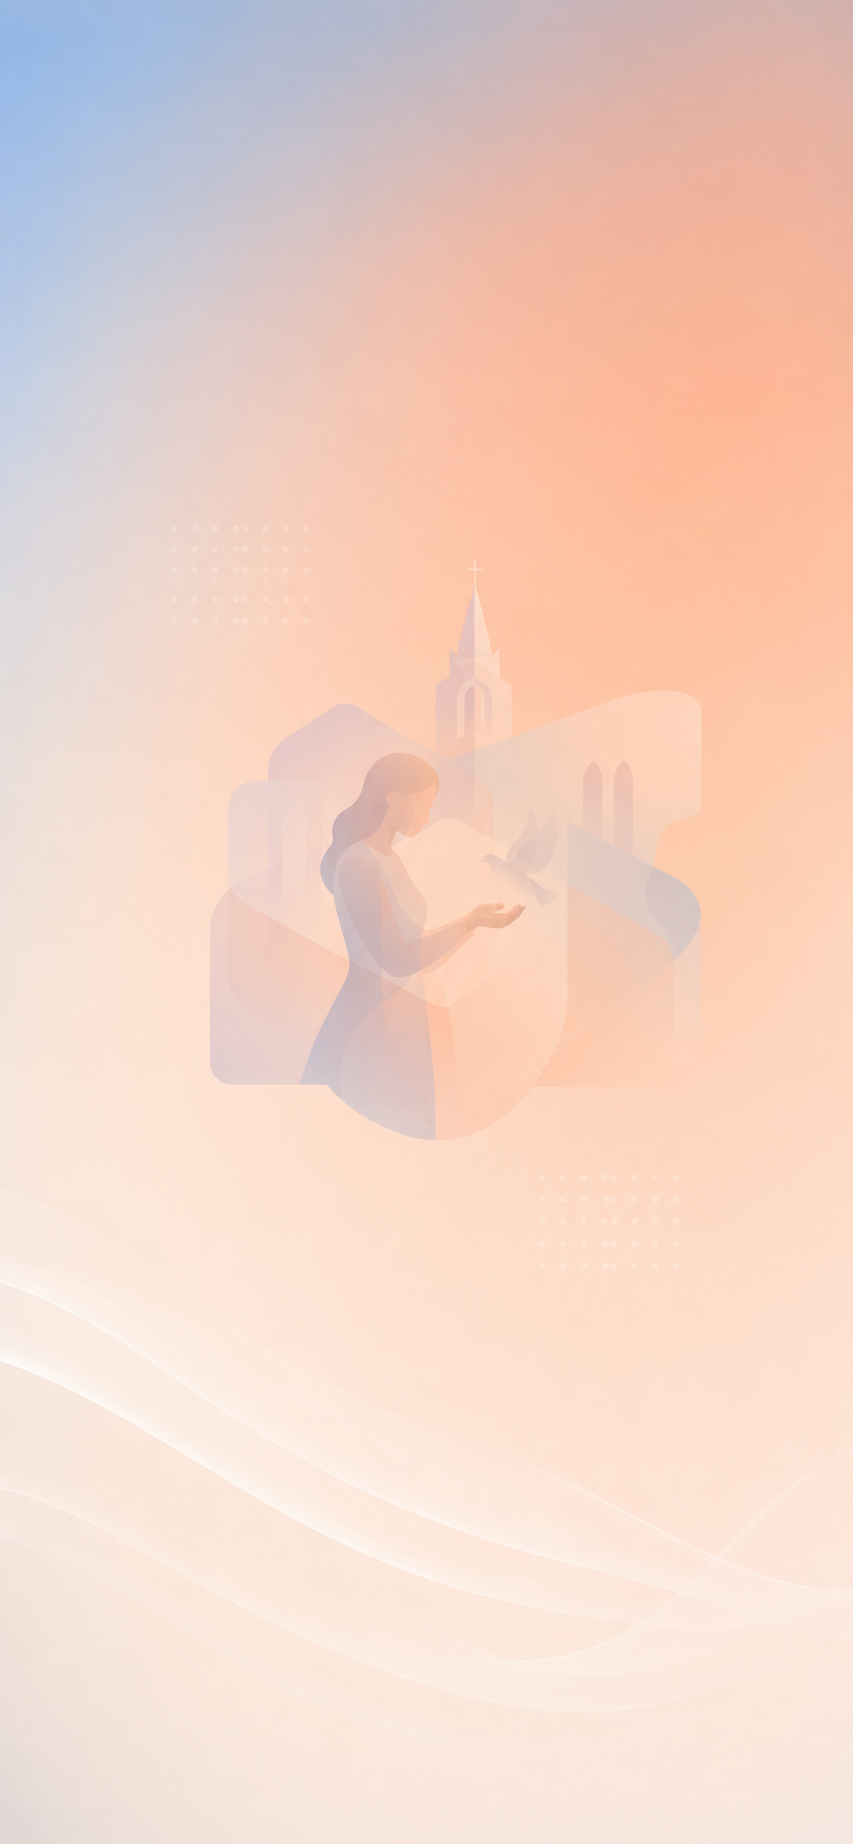
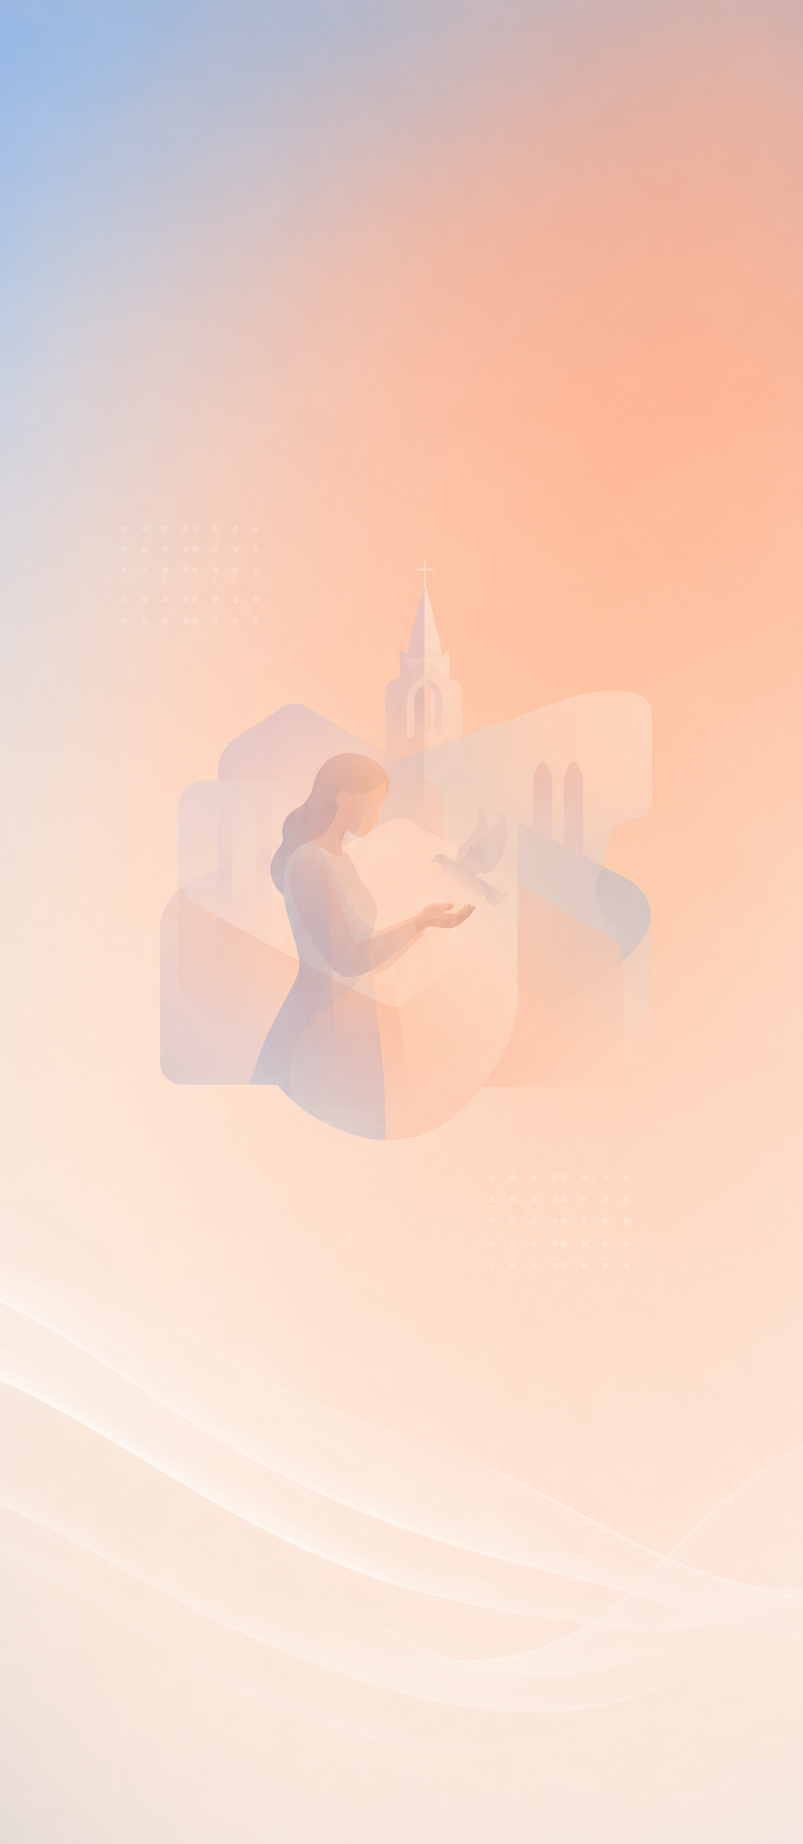
Add md: tablet responsive breakpoints to Hero and Gallery

diff --git a/src/components/Hero.tsx b/src/components/Hero.tsx
@@ -27,7 +27,7 @@ export default function Hero({ onOpenWatch, onOpenContact }: HeroProps) {
       <div className="absolute inset-0 bg-black/5" />
 
       {/* Content */}
-      <div className="absolute inset-0 z-10 max-w-6xl mx-auto px-6 sm:px-12 pt-48 sm:pt-48 pb-4 flex flex-col gap-4 sm:gap-6 justify-start overflow-y-auto">
+      <div className="absolute inset-0 z-10 max-w-6xl mx-auto px-6 sm:px-12 pt-48 md:pt-40 pb-4 flex flex-col gap-4 md:gap-5 sm:gap-6 justify-start overflow-y-auto">
         <div className="space-y-3 sm:space-y-3 max-w-2xl fade-up">
           <div className="label text-xs tracking-widest">Established 1954</div>
 
@@ -37,7 +37,7 @@ export default function Hero({ onOpenWatch, onOpenContact }: HeroProps) {
 
           <div className="w-16 h-px bg-white/80" />
 
-          <p className="text-sm sm:text-sm text-white/70 max-w-xl font-light leading-relaxed">
+          <p className="text-sm md:text-base sm:text-sm text-white/70 max-w-xl font-light leading-relaxed">
             A spiritual sanctuary in Kalyanipura dedicated to fostering belonging, renewal, and eternal purpose through faithful fellowship and genuine worship.
           </p>
         </div>
@@ -56,7 +56,7 @@ export default function Hero({ onOpenWatch, onOpenContact }: HeroProps) {
         </div>
 
         <div className="fade-up-delay-2 pt-12 sm:pt-14 space-y-2">
-          <div className="h-px bg-white/30 w-[75vw] sm:w-[25vw]" />
+          <div className="h-px bg-white/30 w-[75vw] md:w-[35vw] lg:w-[25vw]" />
           <div className="flex items-center gap-2 text-sm font-light leading-relaxed" style={{ color: '#6b5c93' }}>
             <MapPin className="w-4 h-4 sm:w-4 sm:h-4 shrink-0" style={{ color: '#6b5c93' }} />
             Kalyanipura, Ajmer, Rajasthan

diff --git a/src/components/Gallery.tsx b/src/components/Gallery.tsx
@@ -98,7 +98,7 @@ export default function Gallery() {
           className="flex gap-4 overflow-x-auto pb-10 sm:pb-16 cursor-grab active:cursor-grabbing select-none lg:justify-center"
           style={{ scrollbarWidth: 'none' }}>
           {GALLERY_ITEMS.map((item) => (
-            <div key={item.id} className="relative shrink-0 w-72 sm:w-80 border border-[#e5e0ec] bg-white p-2 flex flex-col">
+            <div key={item.id} className="relative shrink-0 w-72 lg:w-80 border border-[#e5e0ec] bg-white p-2 flex flex-col">
               <img
                 src={item.imageUrl}
                 alt={item.description}